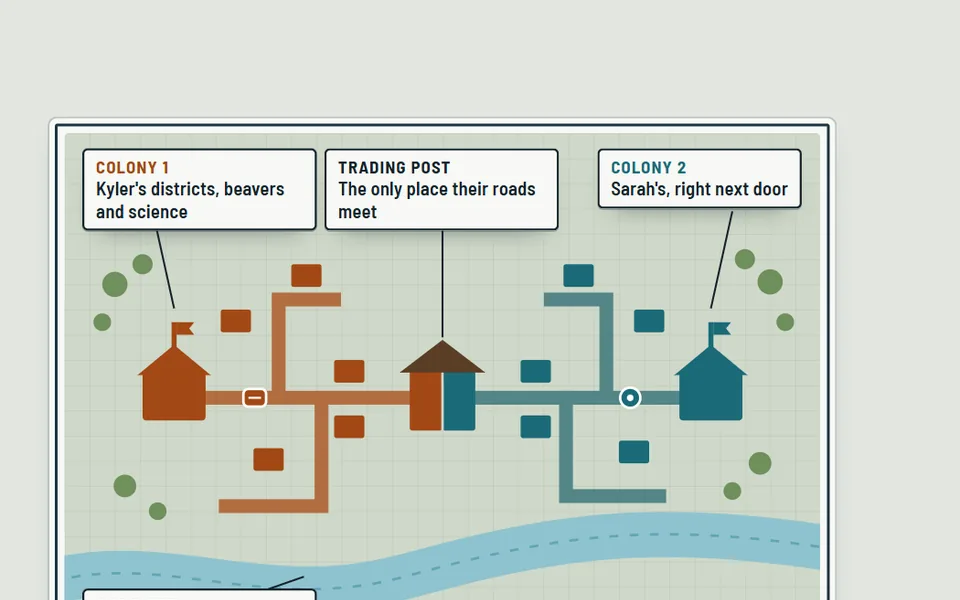
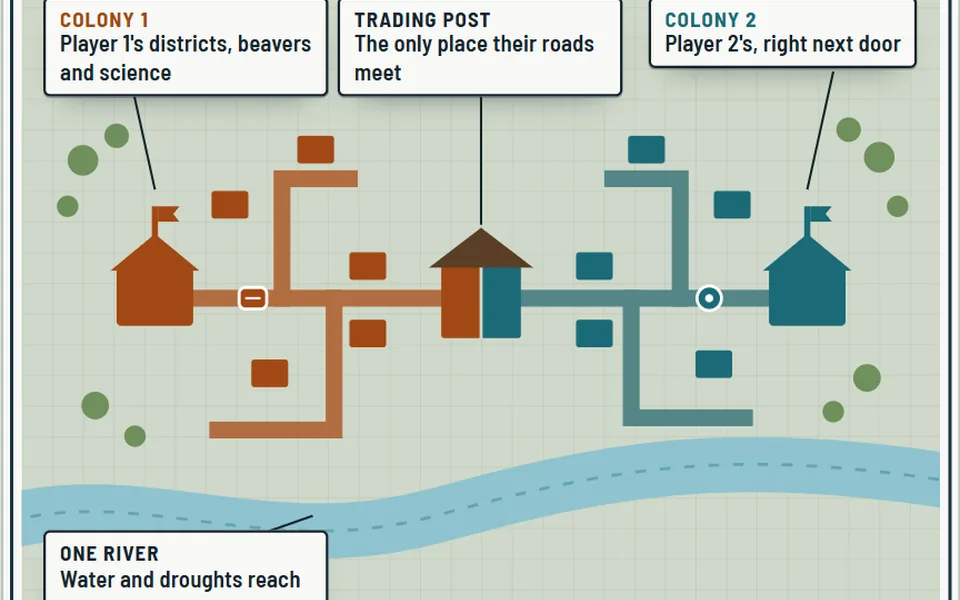
Timber Together's picture: recaptured with Player 1 and Player 2, from the map itself
The site's map labels name Player 1 and Player 2 now. card-art.py captures the hero figure
instead of a fixed rectangle, which the taller name plate had pushed off the map.

diff --git a/scripts/card-art.py b/scripts/card-art.py
@@ -15,7 +15,7 @@ SITE = "https://timbermods.github.io/"
 # card id -> (page, CSS selector of the signature element, or None to use the clip rectangle)
 JOBS = {
     "beaverbuddies-stability-fork": (SITE + "BeaverBuddies-Stability-Fork/", ".coop-map", None),
-    "timber-together": (SITE + "TimberTogether/", None, {"x": 700, "y": 80, "width": 700, "height": 520}),
+    "timber-together": (SITE + "TimberTogether/", ".hero figure", None),
     "mixedstorage": (SITE + "MixedStorage/", "[data-cabinet]", None),
     "persistent-work-areas": (SITE + "PersistentWorkAreas/", "svg.map", None),
     "optimized-local-housing": (SITE + "OptimizedLocalHousing/", "svg.hall", None),
